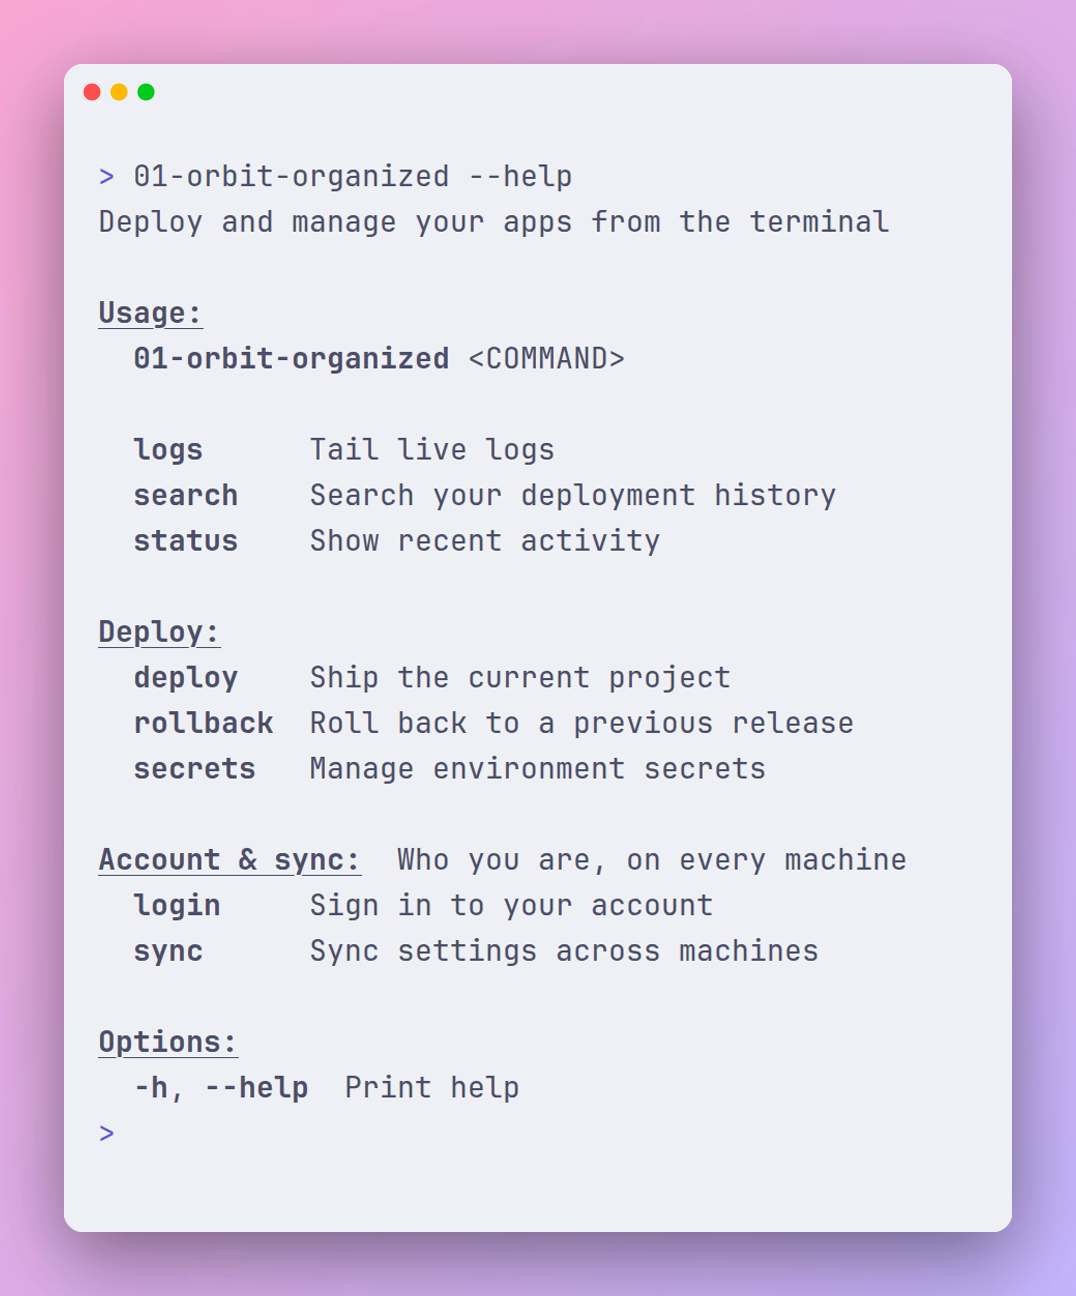
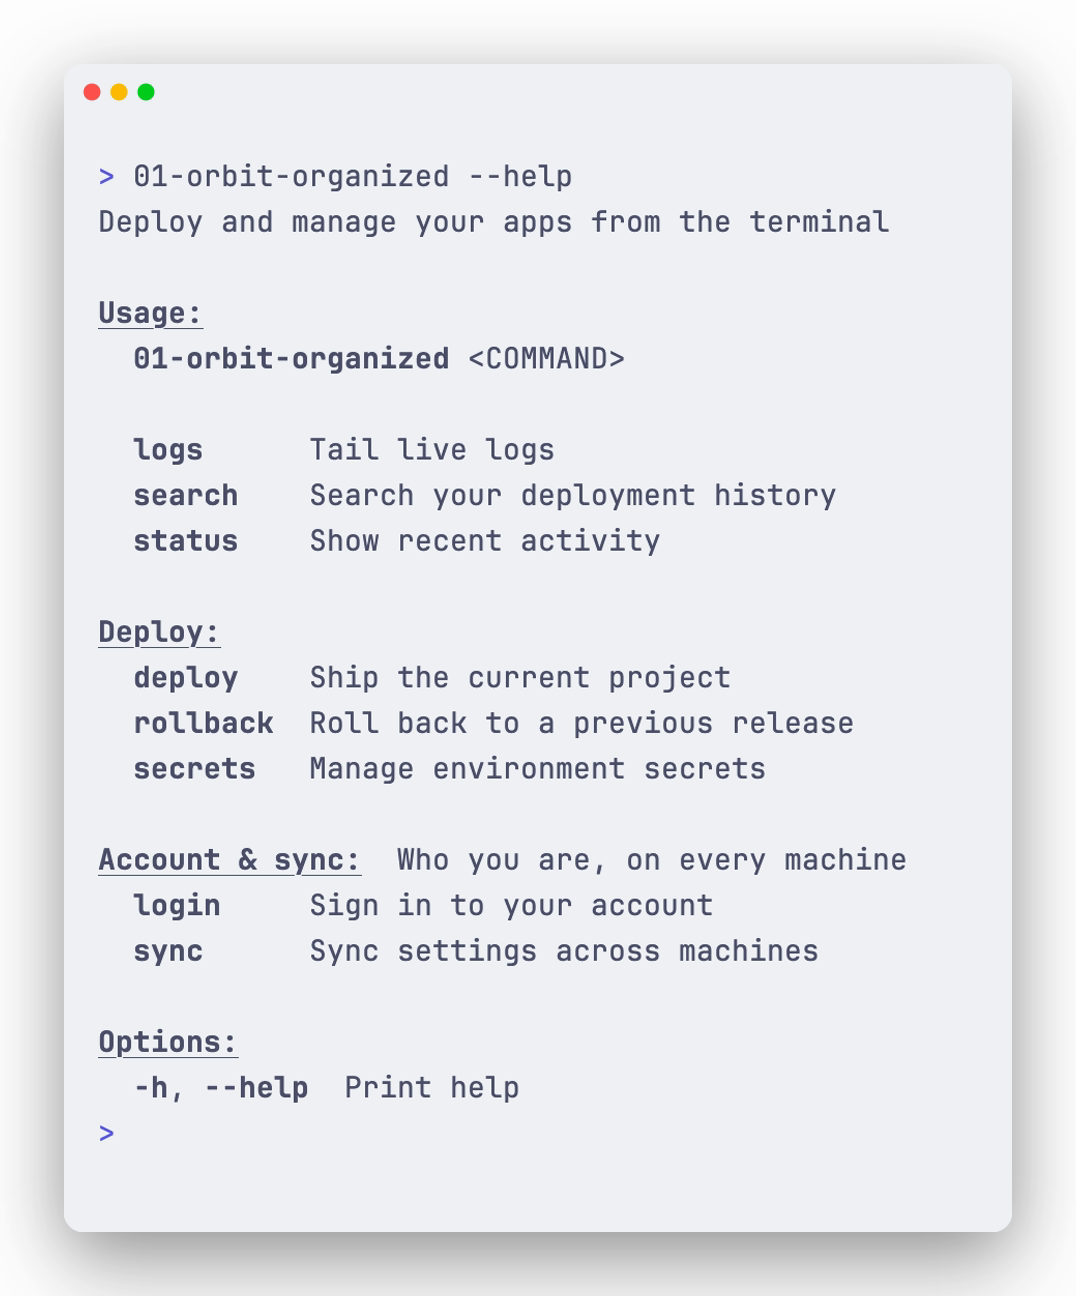
docs: Draw example renders on a flat backdrop instead of a gradient
The pink-to-violet gradient looked cheap. Recordings now sit on GitHub's
page background, #0d1117 dark and #ffffff light, keeping the window's
drop shadow.

06-interactive-editor is left as is: recorded on macOS, its vim lacks the
mode and ruler lines CI's Linux recording shows.

diff --git a/scripts/devtools/backdrop.py b/scripts/devtools/backdrop.py
@@ -1,9 +1,9 @@
-"""A gradient backdrop with a window's drop shadow, for vhs's `Set MarginFill`.
+"""A flat backdrop with a window's drop shadow, for vhs's `Set MarginFill`.
 
 vhs draws the window over its margin flat; the shadow has to be in the fill.
 
 ```python
-backdrop = Backdrop(start="#db2777", end="#7c3aed")
+backdrop = Backdrop(color="#0d1117")
 backdrop.save(path, size=(1200, 800), window=Window(margin=64, radius=24))
 ```
 """
@@ -29,24 +29,14 @@ class Window:
 
 @dataclass(frozen=True)
 class Backdrop:
-    """A diagonal gradient from `start`, top left, to `end`, bottom right."""
+    """A flat `color`."""
 
-    start: str
-    end: str
+    color: str
 
     def save(self, path: Path, *, size: tuple[int, int], window: Window) -> None:
         """Write the backdrop for a `size` recording to `path`, shadowing `window`."""
         width, height = size
-        # The mean of a top-to-bottom and a left-to-right ramp runs corner to corner.
-        across = [255 * x // (width - 1) for x in range(width)]
-        rows = (
-            bytes((step + 255 * y // (height - 1)) // 2 for step in across)
-            for y in range(height)
-        )
-        ramp = Image.frombytes("L", size, b"".join(rows))
-        image = Image.composite(
-            Image.new("RGB", size, self.end), Image.new("RGB", size, self.start), ramp
-        )
+        image = Image.new("RGB", size, self.color)
 
         shadow = Image.new("L", size, 0)
         ImageDraw.Draw(shadow).rounded_rectangle(

diff --git a/scripts/example_recordings.py b/scripts/example_recordings.py
@@ -39,10 +39,10 @@ class Theme:
     backdrop: Backdrop
 
 
-# Catppuccin on the brand's pink fading to violet: deep for dark pages, pale for light.
+# Catppuccin on GitHub's page background, so the window sits on the README itself.
 THEMES: dict[str, Theme] = {
-    "dark": Theme("Catppuccin Mocha", Backdrop(start="#db2777", end="#7c3aed")),
-    "light": Theme("Catppuccin Latte", Backdrop(start="#f9a8d4", end="#c4b5fd")),
+    "dark": Theme("Catppuccin Mocha", Backdrop(color="#0d1117")),
+    "light": Theme("Catppuccin Latte", Backdrop(color="#ffffff")),
 }
 # `--help` screens: nothing moves, so they get a still of their last frame, not a GIF.
 STILLS = frozenset(
